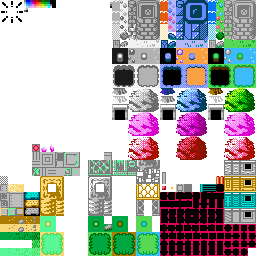
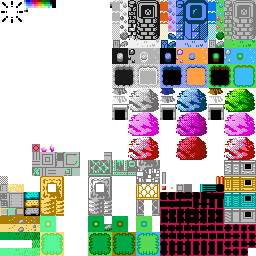
set up for colorizing

Changed region(s): [[0.4375, 0.1875, 0.625, 0.3438], [0.5, 0.0, 0.625, 0.1562], [0.4375, 0.1875, 0.4688, 0.2188]]

diff --git a/index.html b/index.html
@@ -38,7 +38,7 @@
     var roomDrawX = 0;
     var currLvl;
     var prevLvl;
-    var spriteSet = 0;
+    var spriteSet = 12;
     var bannerCounter = 0;
     
     var spriteSheet = new Image();	//Sheet of sprite images
